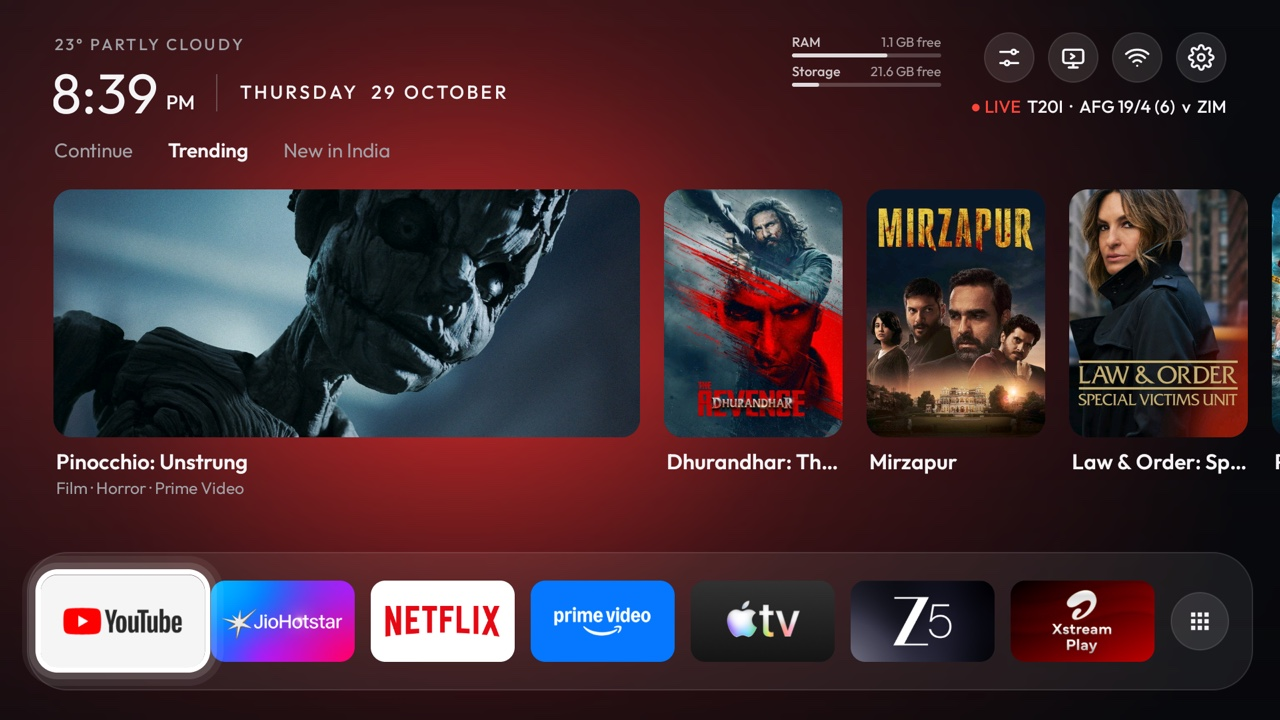
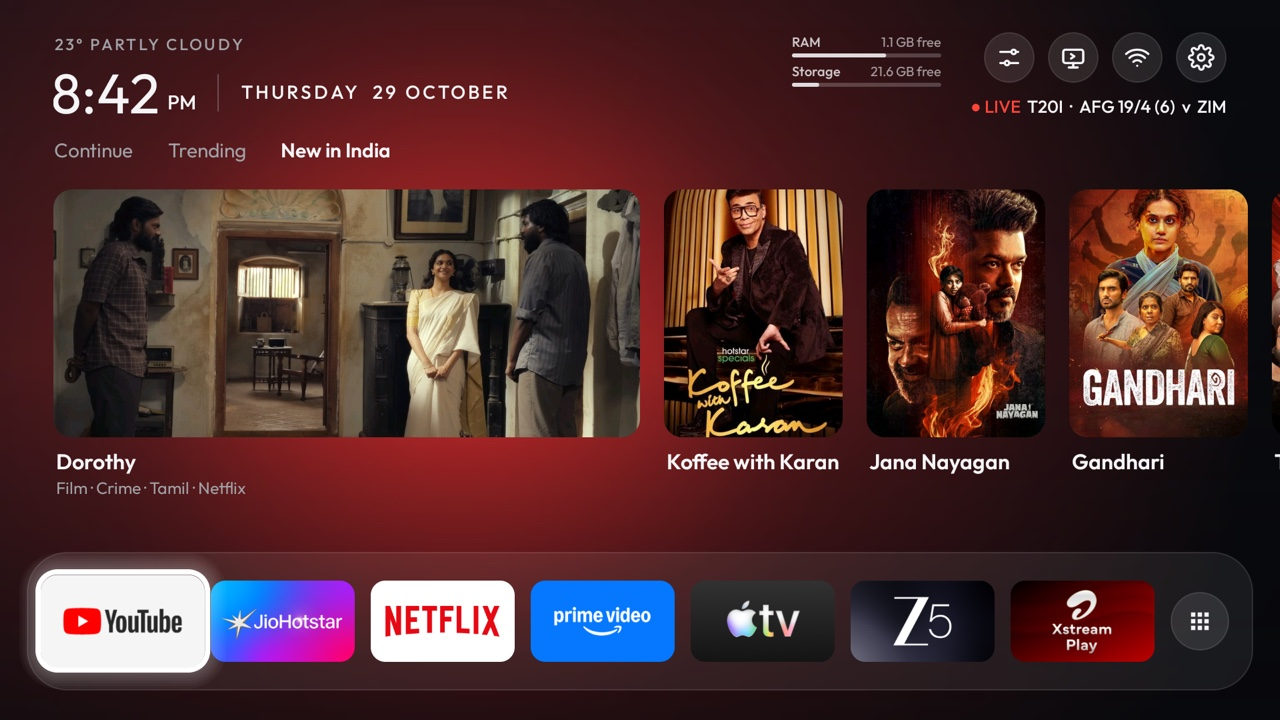
Smooth focus glow, and a brighter README screenshot
The halo around the focus ring was two overlapping strokes, which showed as
steps up close; it's now six thin bands fading outwards. The README's main
screenshot is retaken with it, on New in India.

Changed region(s): [[0.0312, 0.1833, 1.0, 0.7028], [0.1875, 0.1222, 0.4062, 0.1528], [0.0625, 0.0917, 0.1562, 0.1833]]

diff --git a/app/src/main/java/com/techpp/glass/HighlightView.java b/app/src/main/java/com/techpp/glass/HighlightView.java
@@ -11,7 +11,7 @@ import android.view.View;
  * Full-screen overlay that draws the one focus ring: a white outline around the focused card or tile, moved
  * (with a small spring) by the activity, with a soft halo around it so it reads from across the room. In the day
  * theme a faint dark edge keeps it visible on light backgrounds; while an app is picked up for moving the ring is
- * thicker. The halo is two wider, fainter strokes: no blur, so it costs nothing per frame.
+ * thicker. The halo is six thin strokes fading outwards: no blur, so it costs nothing per frame.
  */
 public class HighlightView extends View {
     final RectF rect = new RectF();
@@ -21,6 +21,8 @@ public class HighlightView extends View {
             halo = new Paint(Paint.ANTI_ALIAS_FLAG);
     private final float dp;
     private final RectF tmp = new RectF();
+    private static final float HALO_DP = 12f;
+    private static final int HALO_BANDS = 6;
 
     public HighlightView(Context c, AttributeSet a) {
         super(c, a);
@@ -49,15 +51,17 @@ public class HighlightView extends View {
     protected void onDraw(Canvas canvas) {
         if (rect.isEmpty()) return;
         float w = (moving ? 5f : 4f) * dp;
-        // The halo: outermost and faintest first, just outside the ring.
-        int haloRgb = day ? 0x000000 : 0xFFFFFF;
-        for (int i = 2; i >= 1; i--) {
-            float hw = i * 5 * dp;
-            halo.setStrokeWidth(hw);
-            halo.setColor(((day ? 0x14 : 0x22) / i << 24) | haloRgb);
+        // The halo: thin bands side by side just outside the ring, each fainter than the last, so it fades out
+        // smoothly over 12 dp (overlapping wide strokes showed as steps).
+        int haloRgb = day ? 0x000000 : 0xFFFFFF, strongest = day ? 0x22 : 0x34;
+        float band = HALO_DP / HALO_BANDS * dp;
+        halo.setStrokeWidth(band);
+        for (int i = 0; i < HALO_BANDS; i++) {
+            halo.setColor((Math.round(strongest * (1 - i / (float) HALO_BANDS)) << 24) | haloRgb);
+            float out = w + band * i + band / 2;
             tmp.set(rect);
-            tmp.inset(-w - hw / 2, -w - hw / 2);
-            canvas.drawRoundRect(tmp, radius + w + hw / 2, radius + w + hw / 2, halo);
+            tmp.inset(-out, -out);
+            canvas.drawRoundRect(tmp, radius + out, radius + out, halo);
         }
         ring.setStrokeWidth(w);
         tmp.set(rect);

diff --git a/README.md b/README.md
@@ -1,5 +1,5 @@
 <p align="center">
-  <img src="docs/home.jpg" width="900" alt="Talkies on a TV: weather, clock and date at the top left, RAM and storage meters and a live cricket score at the top right, Trending picks, and a dock of seven apps with the All apps button, over a red glow from YouTube">
+  <img src="docs/home.jpg" width="900" alt="Talkies on a TV: weather, clock and date at the top left, RAM and storage meters and a live cricket score at the top right, New in India picks, and a dock of seven apps with the All apps button, over a red glow from YouTube">
 </p>
 
 <h1 align="center">Talkies</h1>

diff --git a/CHANGELOG.md b/CHANGELOG.md
@@ -3,6 +3,11 @@
 Versions are numbered *major.minor.fix*. While Talkies is in beta they start with 0: a new minor number brings new
 features, a new fix number only fixes. The version shows in Talkies settings → About.
 
+## Unreleased
+
+### Fixed
+- **The glow around the focus ring fades smoothly.** It was two overlapping outlines, which showed as steps up close.
+
 ## 1.1.0 — 29 October 2026
 
 ### New
